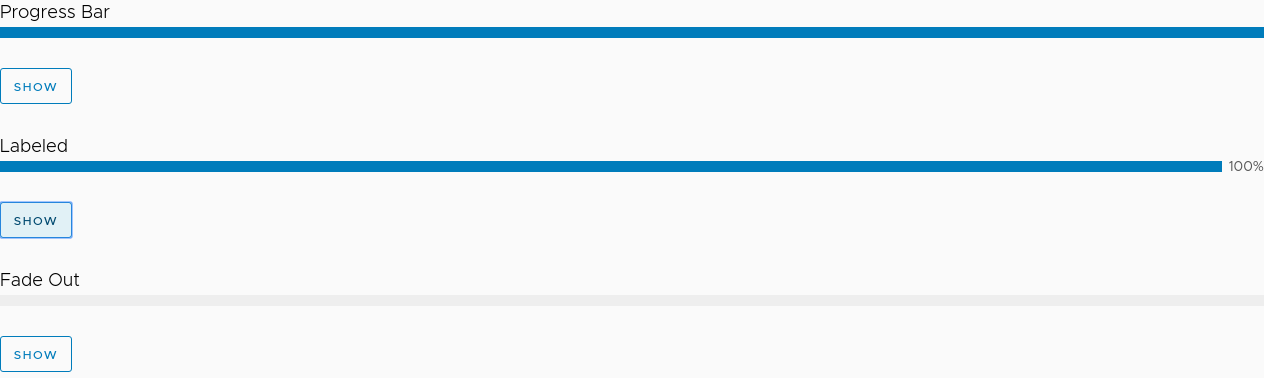
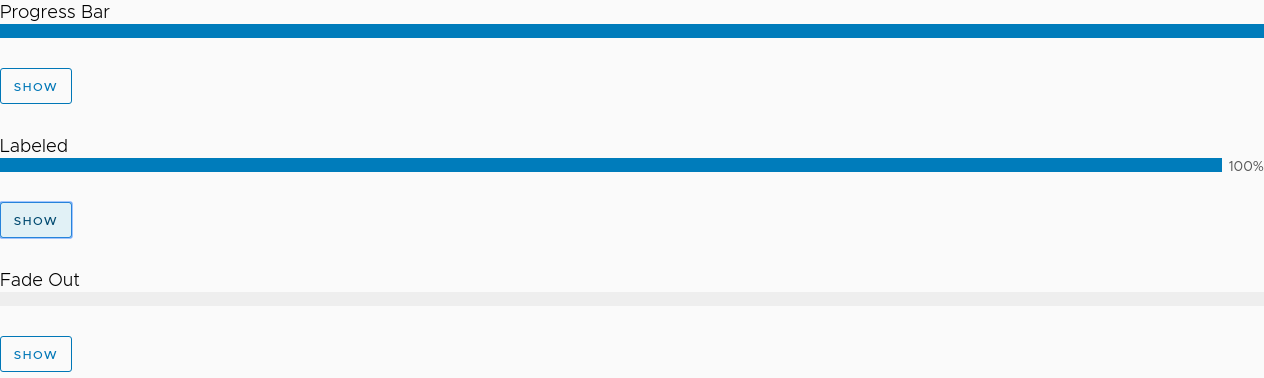
[UI] make progress element inline block

Changed region(s): [[0.0, 0.0582, 1.0, 0.0873], [0.0, 0.4074, 0.9565, 0.4365]]

diff --git a/src/clr-angular/progress/progress-bars/_progress-bars.clarity.scss b/src/clr-angular/progress/progress-bars/_progress-bars.clarity.scss
@@ -51,6 +51,8 @@
     > progress {
       @include clr-appearance-normal();
 
+      display: block;
+
       background-color: $clr-progress-bgColor;
       border: none;
       // IE10 uses `color` to set the bar background-color
